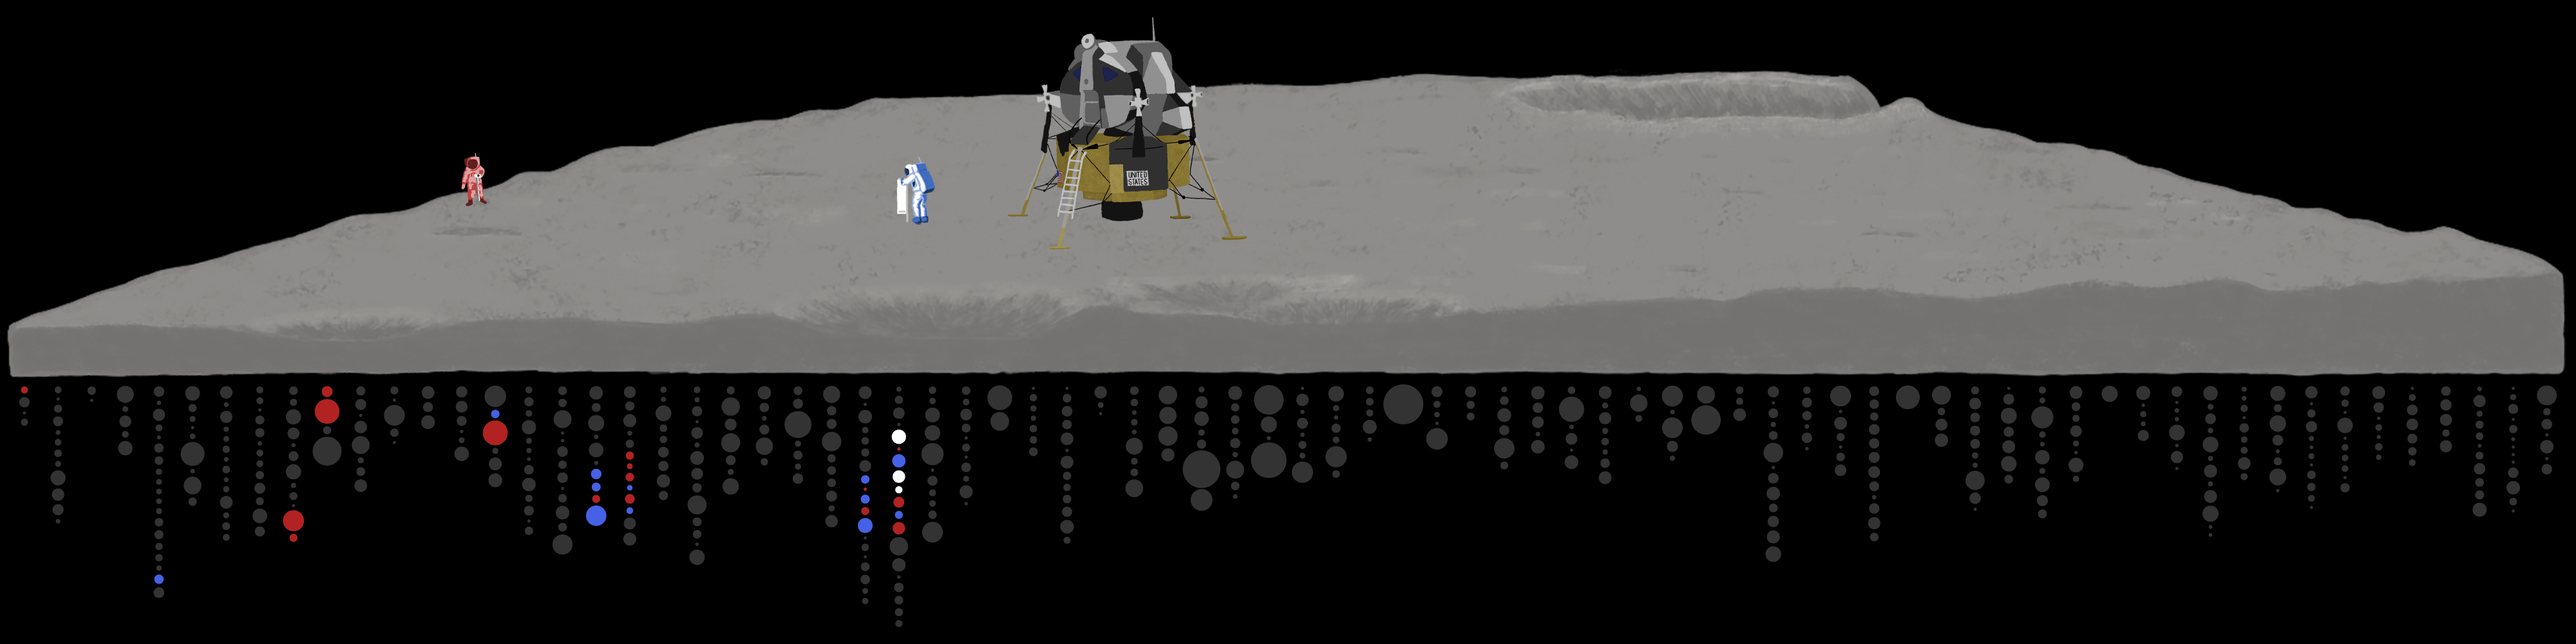
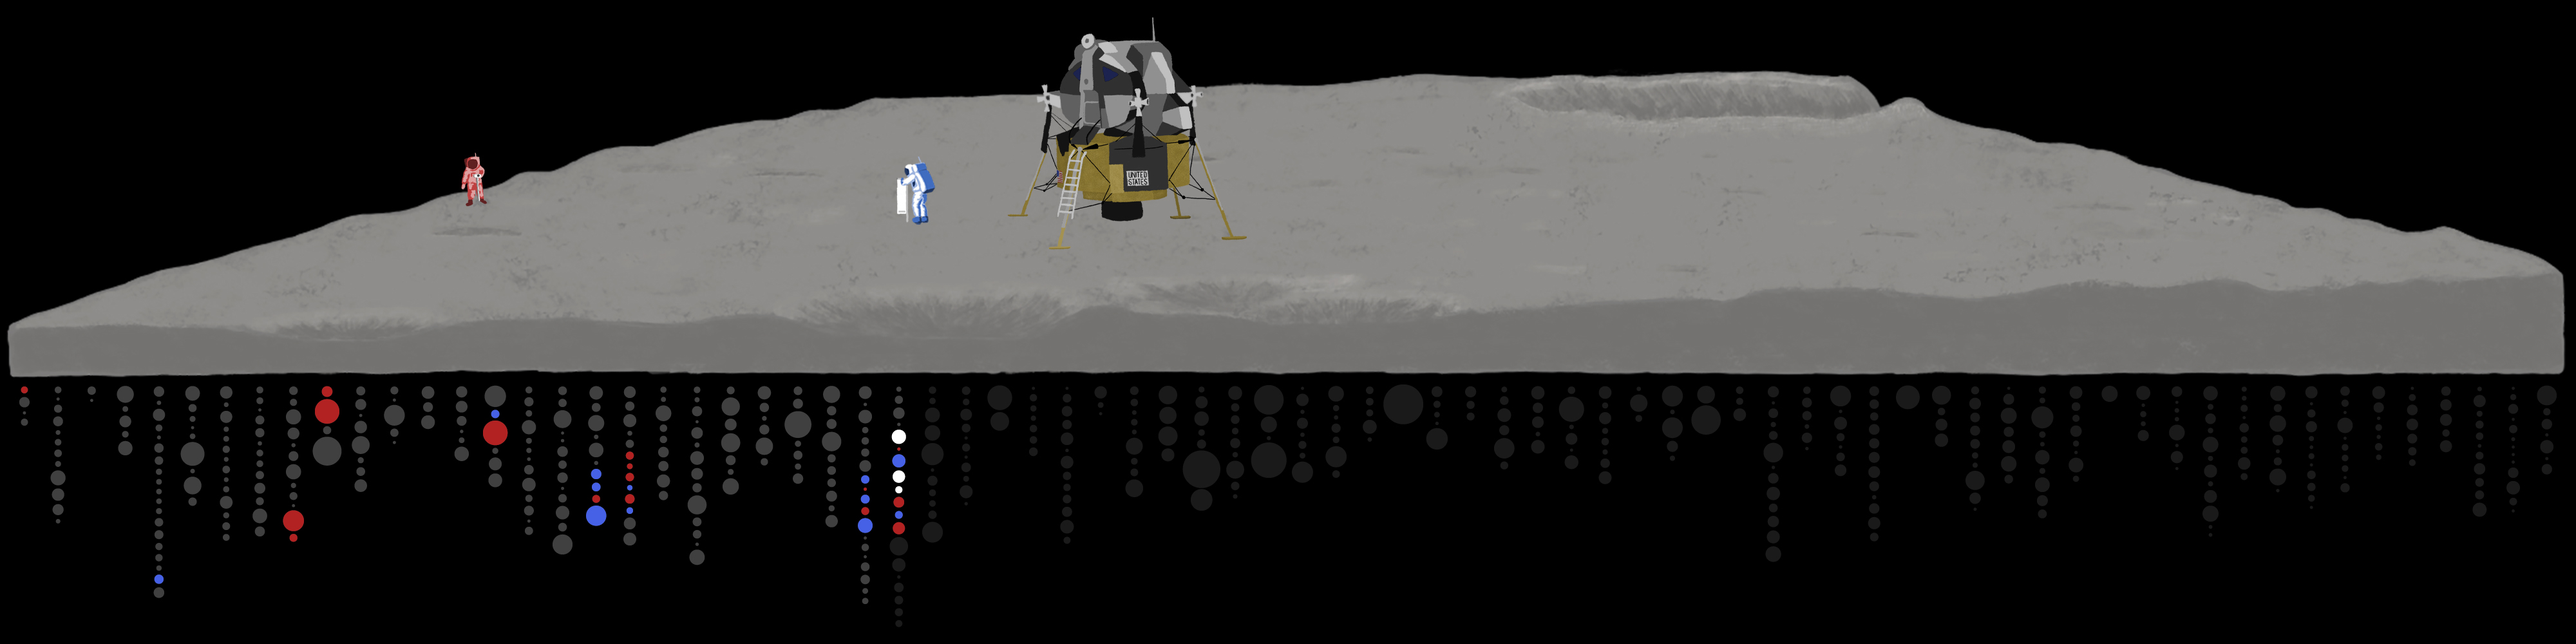
updates grey bubbles and polishes text

diff --git a/index.html b/index.html
@@ -165,8 +165,7 @@ Copyright 2019, RJ Andrews, All rights reserved.-->
                             <li class="buzz">Beautiful view!</li>
                             <li class="neil">Isn’t that something! Magnificent sight out here.</li>
                             <li class="buzz">Magnificent desolation.</li>
-                            <li class="comment clong">Each circle below is a radio transmission, colored by speaker.</li>
-                            <li class="comment clong">Circle size is transmission length. Transmissions not shown remain grey. </li>
+                            <li class="comment clong">Each circle below is a radio transmission, colored by speaker. Transmissions not shown remain grey. </li>
                         </ul>
                 </div>
 
@@ -409,7 +408,7 @@ Copyright 2019, RJ Andrews, All rights reserved.-->
                         <p>2:32</p>
                         <ul>
                             <li class="comment clong">Neil does a deep knee bend and takes advantage of 1/6 gravity as he springs up to the ladder's 3rd step.</li>
-                            <li class="comment clong">Buzz helps Neil through LM hatch.</li>
+                            <li class="comment clong">Then Buzz helps Neil into LM.</li>
                             <li class="buzz">Just keep your head down close. Now start arching your back. That's good. Plenty of room. Now, all right, arch your back a little, your head up against *** Roll right just a little bit. Head down. ... in good shape.</li>
                             <li class="neil">Thank you. Am I bumping now?</li>
                             <li class="buzz">No, you're clear. You're rubbing up against me a little bit.</li>
@@ -422,7 +421,15 @@ Copyright 2019, RJ Andrews, All rights reserved.-->
 
                     <div class='step' data-step='22'>
                         <ul>
-                            <li class="break"> End of Transcript Excerpt.</li>
+                            <li class="comment ccenter"> End of Transcript Excerpt.<li></li>
+                                
+                            <li class="comment ccenter">Only the most exciting Moonwalk action was shown in this story. Everything left out remained grey. Circle size corresponds to original transmission length.</li>
+
+                        </ul>
+                    </div>
+                    <div class='step' data-step='23'>
+                        <ul>
+                            <li class="break">Keep scrolling to see more.</li>
 
                         </ul>
                     </div>

diff --git a/index.js b/index.js
@@ -83,6 +83,7 @@
                 ["02:12","00:20"],
                 ["02:30","00:02"],
                 ["02:32","00:00"],
+                ["02:32","00:00"],
                 ["02:32","00:00"]
                 ];
 
